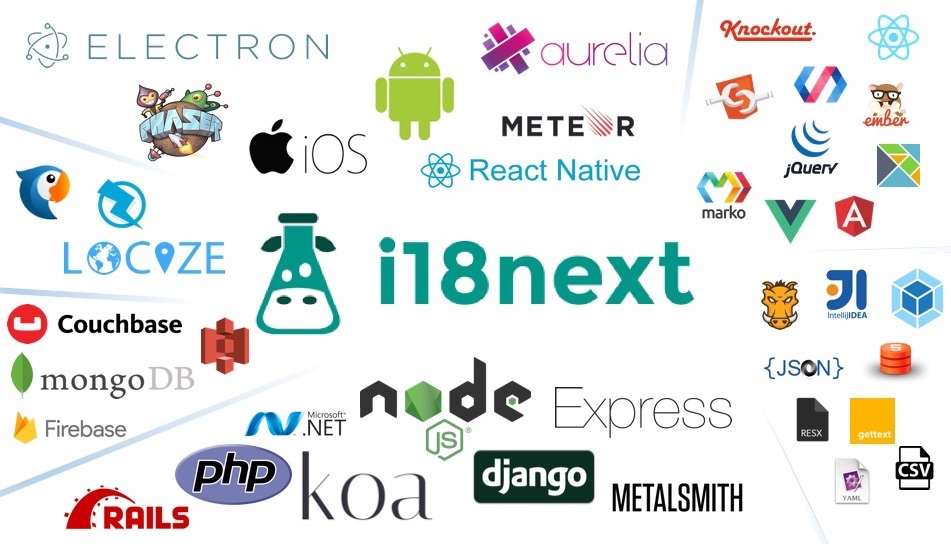
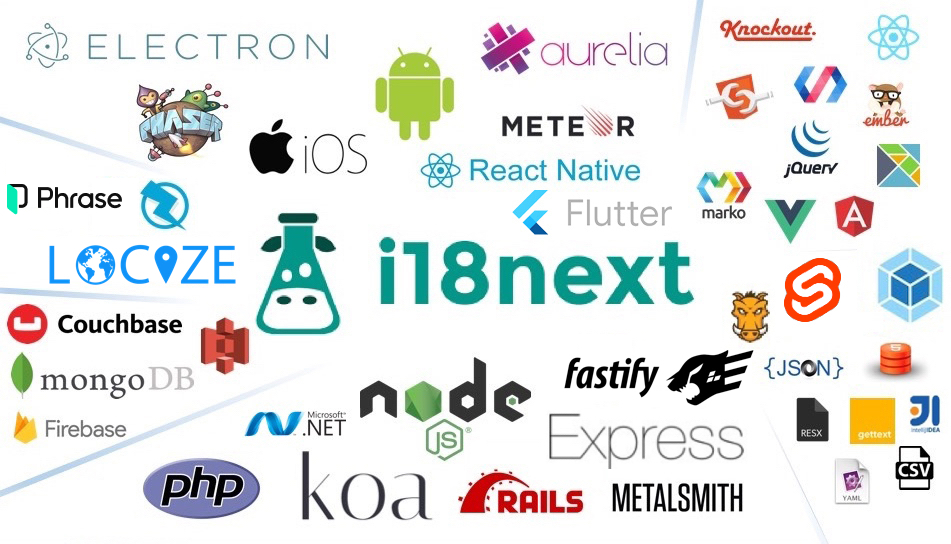
GITBOOK-272: change request with no subject merged in GitBook

diff --git a/overview/first-setup-help.md b/overview/first-setup-help.md
@@ -4,8 +4,8 @@ description: Let's try to figure out what you need.
 
 # First setup help
 
-* \*\*\*\*[For which environment are you looking for an i18n solution?](first-setup-help.md#for-which-environment-are-you-looking-for-an-i-18-n-solution)
-  * [Special handling for serverless environments \(AWS lambda, Google Cloud Functions, Azure Functions, etc...\)](first-setup-help.md#special-handling-for-serverless-environments-aws-lambda-google-cloud-functions-azure-functions-etc)
+* [For which environment are you looking for an i18n solution?](first-setup-help.md#for-which-environment-are-you-looking-for-an-i-18-n-solution)
+  * [Special handling for serverless environments (AWS lambda, Google Cloud Functions, Azure Functions, etc...)](first-setup-help.md#special-handling-for-serverless-environments-aws-lambda-google-cloud-functions-azure-functions-etc)
 * [Do you need a language detector for your environment?](first-setup-help.md#do-you-need-a-language-detector-for-your-environment)
 * [Do you want to bundle the translations with your app?](first-setup-help.md#do-you-want-to-bundle-the-translations-with-your-app)
 * [Do you want to load the translations separate from your app via http?](first-setup-help.md#do-you-want-to-load-the-translations-separate-from-your-app-via-http)
@@ -13,11 +13,11 @@ description: Let's try to figure out what you need.
 
 ## For which environment are you looking for an i18n solution?
 
-[Client](https://react.i18next.com/), [server](https://github.com/i18next/i18next-http-middleware), [browser](https://github.com/i18next/jquery-i18next), [React](https://react.i18next.com), [mobile](https://github.com/i18next/react-i18next/tree/master/example/react-native), [desktop](https://github.com/i18next/react-i18next/tree/master/example/react_native_windows), [Node.js](https://github.com/i18next/i18next-fs-backend/blob/master/example/node/index.js), [Deno](https://github.com/i18next/i18next-fs-backend/blob/master/example/deno/index.js)...
+[Client](https://react.i18next.com/), [server](https://github.com/i18next/i18next-http-middleware), [browser](https://github.com/i18next/jquery-i18next), [React](https://react.i18next.com), [mobile](https://github.com/i18next/react-i18next/tree/master/example/react-native), [desktop](https://github.com/i18next/react-i18next/tree/master/example/react\_native\_windows), [Node.js](https://github.com/i18next/i18next-fs-backend/blob/master/example/node/index.js), [Deno](https://github.com/i18next/i18next-fs-backend/blob/master/example/deno/index.js)...
 
 There are a lot of appropriate libraries. [Have a look at this list.](supported-frameworks.md)
 
-### Special handling for serverless environments \(AWS lambda, Google Cloud Functions, Azure Functions, etc...\)
+### Special handling for serverless environments (AWS lambda, Google Cloud Functions, Azure Functions, etc...)
 
 Make use of [i18next-fs-backend](https://github.com/i18next/i18next-fs-backend)
 
@@ -60,7 +60,7 @@ i18next
 ## Do you need a language detector for your environment?
 
 * for example for the browser: [i18next-browser-languageDetector](https://github.com/i18next/i18next-browser-languageDetector)
-* for example for http server \(express, Fastify, etc...\): [i18next-http-middleware](https://github.com/i18next/i18next-http-middleware#language-detection)
+* for example for http server (express, Fastify, etc...): [i18next-http-middleware](https://github.com/i18next/i18next-http-middleware#language-detection)
 * [there are other plugins here](https://www.i18next.com/overview/plugins-and-utils#language-detector)
 
 ## Do you want to bundle the translations with your app?
@@ -78,4 +78,3 @@ i18next
 ## Do you want to manage your translations with an awesome translation management system?
 
 ### [Ready to take i18next to the next level?](for-enterprises.md)
-

diff --git a/translation-function/formatting.md b/translation-function/formatting.md
@@ -4,14 +4,14 @@ Starting with **i18next>=21.3.0** you can use the built-in formatting functions 
 
 _You may need to_ [_polyfill_](https://formatjs.io/docs/polyfills/) _the Intl API:_
 
-* __[_Intl.PluralRules_](https://formatjs.io/docs/polyfills/intl-pluralrules)__
-* __[_Intl.RelativeTimeFormat_](https://formatjs.io/docs/polyfills/intl-relativetimeformat)__
-* __[_Intl.ListFormat_](https://formatjs.io/docs/polyfills/intl-listformat)__
-* __[_Intl.DisplayNames_](https://formatjs.io/docs/polyfills/intl-displaynames)__
-* __[_Intl.NumberFormat_](https://formatjs.io/docs/polyfills/intl-numberformat) _(ES2020)_
-* __[_Intl.Locale_](https://formatjs.io/docs/polyfills/intl-locale)__
-* __[_Intl.getCanonicalLocales_](https://formatjs.io/docs/polyfills/intl-getcanonicallocales)__
-* __[_Intl.DateTimeFormat_](https://formatjs.io/docs/polyfills/intl-datetimeformat) _(ES2020)_
+* [_Intl.PluralRules_](https://formatjs.io/docs/polyfills/intl-pluralrules)
+* [_Intl.RelativeTimeFormat_](https://formatjs.io/docs/polyfills/intl-relativetimeformat)
+* [_Intl.ListFormat_](https://formatjs.io/docs/polyfills/intl-listformat)
+* [_Intl.DisplayNames_](https://formatjs.io/docs/polyfills/intl-displaynames)
+* [_Intl.NumberFormat_](https://formatjs.io/docs/polyfills/intl-numberformat) _(ES2020)_
+* [_Intl.Locale_](https://formatjs.io/docs/polyfills/intl-locale)
+* [_Intl.getCanonicalLocales_](https://formatjs.io/docs/polyfills/intl-getcanonicallocales)
+* [_Intl.DateTimeFormat_](https://formatjs.io/docs/polyfills/intl-datetimeformat) _(ES2020)_
 
 {% hint style="info" %}
 🎓 Check out this topic in the [i18next crash course video](https://youtu.be/SA\_9i4TtxLQ?t=557).

diff --git a/how-to/faq.md b/how-to/faq.md
@@ -67,9 +67,9 @@ _i.e._
 * _en, en-US or en-GB_
 * _zh, zh-HK or zh-Hant-HK_
 
-_Other examples are listed here:_ [_https://www.iana.org/assignments/language-tags/language-tags.xhtml_](https://www.iana.org/assignments/language-tags/language-tags.xhtml)__
+_Other examples are listed here:_ [_https://www.iana.org/assignments/language-tags/language-tags.xhtml_](https://www.iana.org/assignments/language-tags/language-tags.xhtml)
 
-_And more information about the format can be found here:_ [_https://www.w3.org/International/articles/language-tags/_](https://www.w3.org/International/articles/language-tags/)__
+_And more information about the format can be found here:_ [_https://www.w3.org/International/articles/language-tags/_](https://www.w3.org/International/articles/language-tags/)
 
 ## Process
 

diff --git a/README.md b/README.md
@@ -8,7 +8,7 @@ i18next goes beyond just providing the standard i18n features such as ([plurals]
 
 ## learn once - translate everywhere
 
-![](.gitbook/assets/i18next\_eco.jpg)
+![](.gitbook/assets/i18next-ecosystem.jpg)
 
 The i18next-community created integrations for frontend-frameworks such as [React](https://locize.com/blog/react-i18next/), [Angular](https://locize.com/blog/unleash-the-full-power-of-angular-i18next/), [Vue.js](https://locize.com/blog/i18next-vue/) and many more.
 
